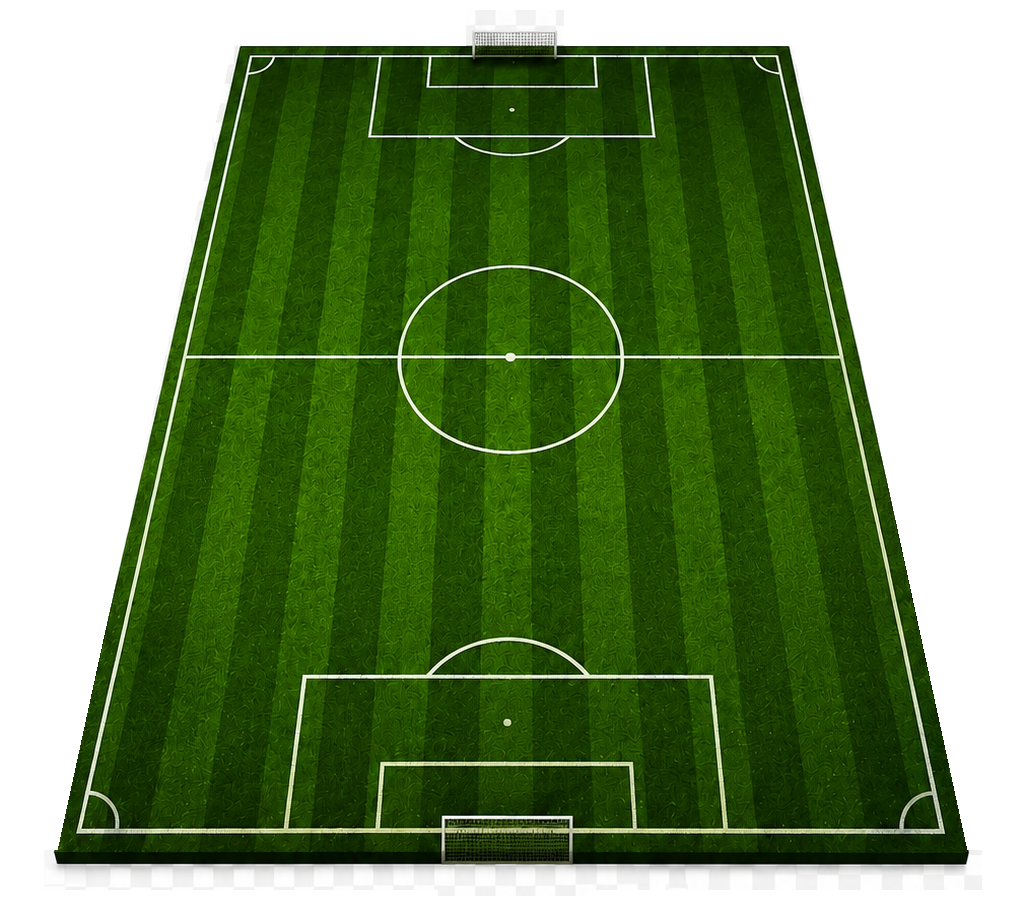
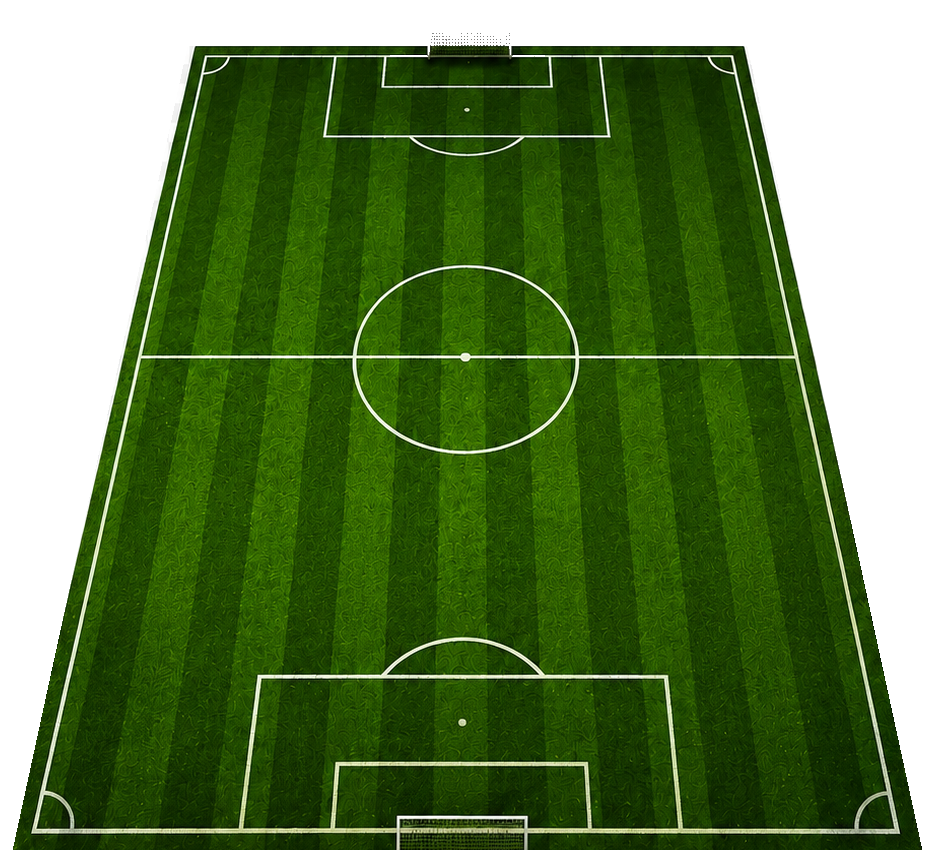
Refine onboarding pitch crop and marker alignment

Changed region(s): [[0.0, 0.0306, 0.9946, 1.0], [0.4352, 0.2141, 0.4662, 0.2447]]

diff --git a/css/onboarding-fix.css b/css/onboarding-fix.css
@@ -88,7 +88,7 @@
 .onboard-step[data-onboard-step="1"] .onboard-name-icon{position:absolute;left:17%;top:50%;z-index:3;width:clamp(36px,9vw,52px);height:auto;transform:translate(-50%,-50%);object-fit:contain;opacity:.9;pointer-events:none;user-select:none}
 .onboard-step[data-onboard-step="1"] .onboard-name-input-wrap #nameInput.onboard-name-input{position:absolute!important;left:30%!important;right:8%!important;top:50%!important;z-index:4!important;width:auto!important;max-width:none!important;min-width:0!important;height:60%!important;min-height:0!important;margin:0!important;padding:0!important;transform:translateY(-50%)!important;background:transparent!important;border:0!important;border-radius:0!important;box-shadow:none!important;outline:none!important;color:#fff!important;caret-color:#c8ff24!important;text-align:left!important;font-size:clamp(20px,5.5vw,28px)!important;font-weight:600!important;line-height:1!important}
 .onboard-step[data-onboard-step="1"] .onboard-name-input-wrap #nameInput.onboard-name-input::placeholder{color:rgba(255,255,255,.68)}
-.onboard-step[data-onboard-step="2"] .position-selector{position:relative!important;width:min(96vw,376px)!important;aspect-ratio:1023/910!important;height:auto!important;max-height:none!important;min-height:0!important;display:block!important;padding:0!important;border:0!important;border-radius:0!important;background:transparent!important;box-shadow:none!important;overflow:visible!important;contain:none!important}
+.onboard-step[data-onboard-step="2"] .position-selector{position:relative!important;width:min(96vw,376px)!important;aspect-ratio:933/850!important;height:auto!important;max-height:none!important;min-height:0!important;display:block!important;padding:0!important;border:0!important;border-radius:0!important;background:transparent!important;box-shadow:none!important;overflow:visible!important;contain:none!important}
 .onboard-step[data-onboard-step="2"] .position-selector::before,.onboard-step[data-onboard-step="2"] .position-selector::after{display:none!important;content:none!important}
 /* Onboarding Step 2 — hide exported checkerboard canvas around the pitch art */
 .position-pitch-base{position:absolute;inset:0;width:100%;height:100%;max-width:none;display:block;object-fit:fill;user-select:none;pointer-events:none;filter:drop-shadow(0 16px 28px rgba(0,0,0,.36))}
@@ -112,7 +112,7 @@
 .onboard-step[data-onboard-step="2"]{gap:3px!important}
 .onboard-step[data-onboard-step="2"] .position-title{font-size:10px!important}
 .onboard-step[data-onboard-step="2"] .onboard-position-heading{font-size:clamp(30px,7.3vw,42px)!important;margin-bottom:1px!important}
-.onboard-step[data-onboard-step="2"] .position-selector{width:min(96vw,376px)!important;aspect-ratio:1023/910!important}
+.onboard-step[data-onboard-step="2"] .position-selector{width:min(96vw,376px)!important;aspect-ratio:933/850!important}
 .onboard-step[data-onboard-step="2"] .position-confirm{min-height:34px!important;padding:2px 8px!important}
 .onboard-step[data-onboard-step="2"] .position-confirm b{font-size:clamp(14px,3.7vw,17px)!important}
 .onboard-step[data-onboard-step="3"] .onboard-confirm-card small{font-size:0}